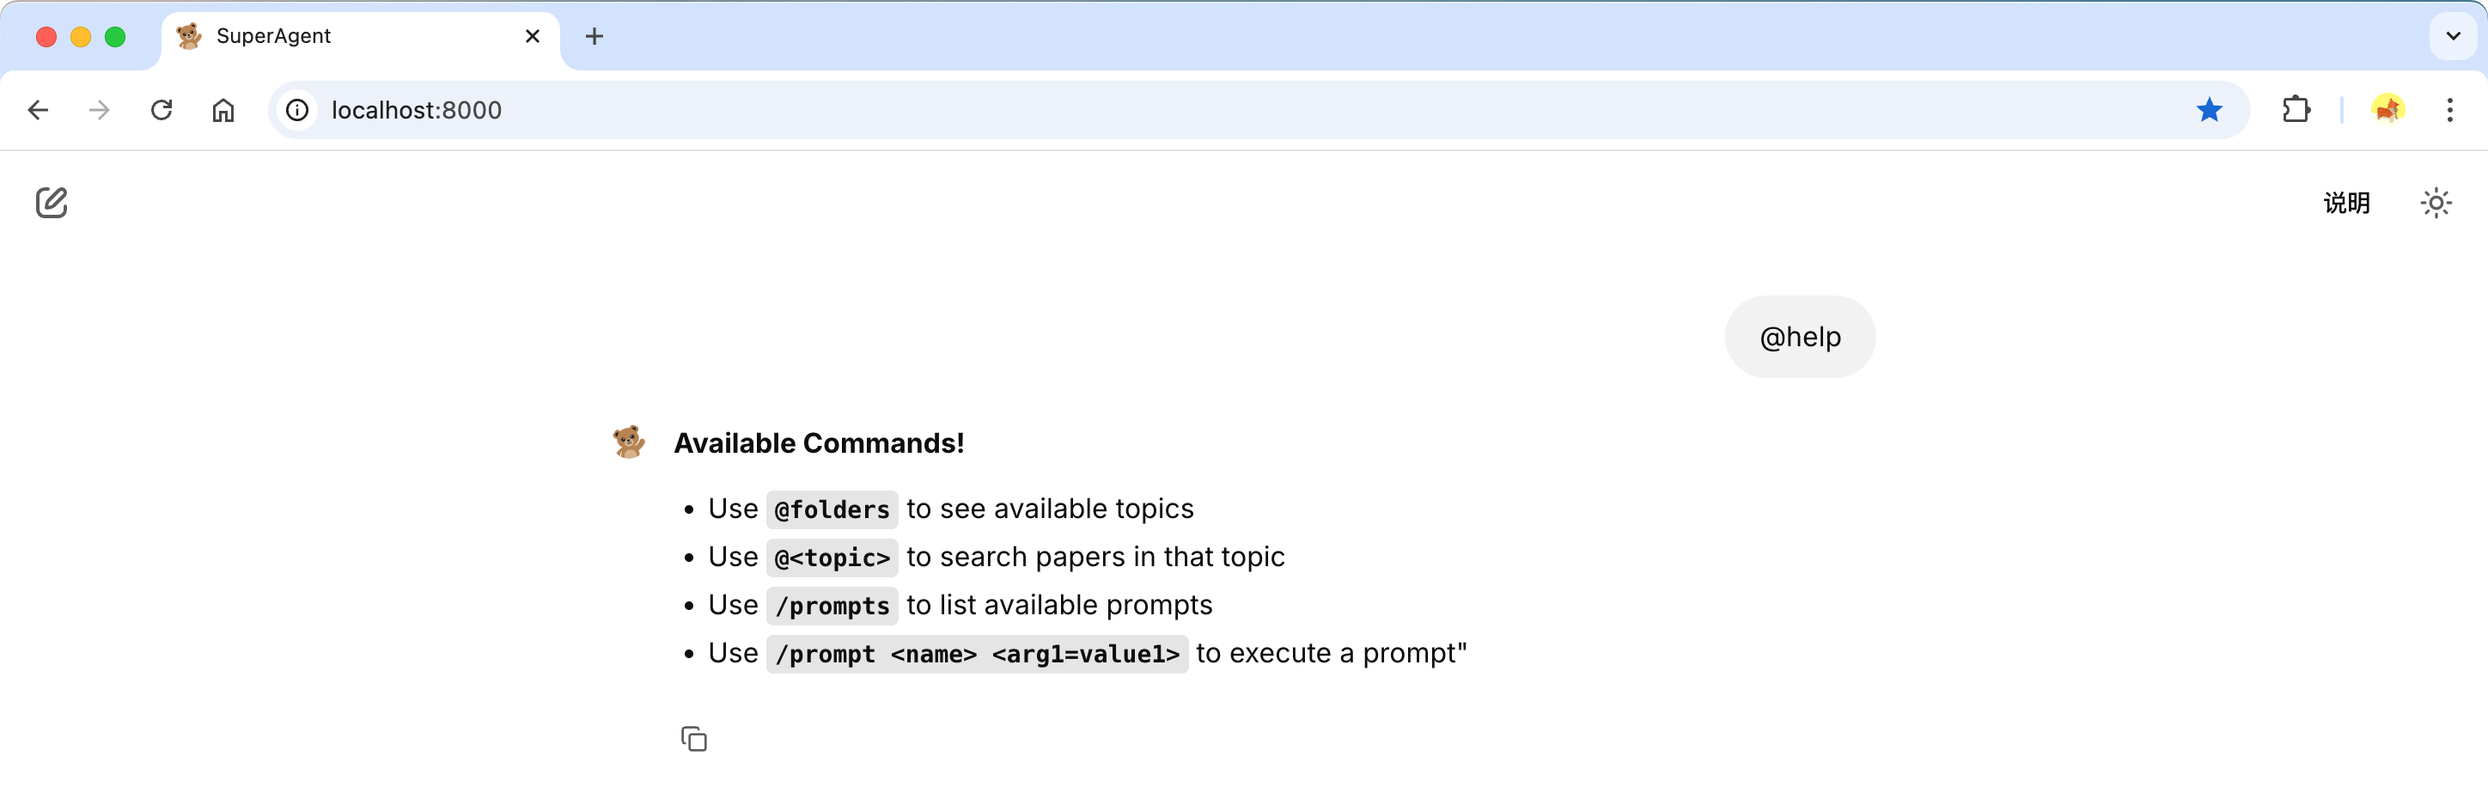
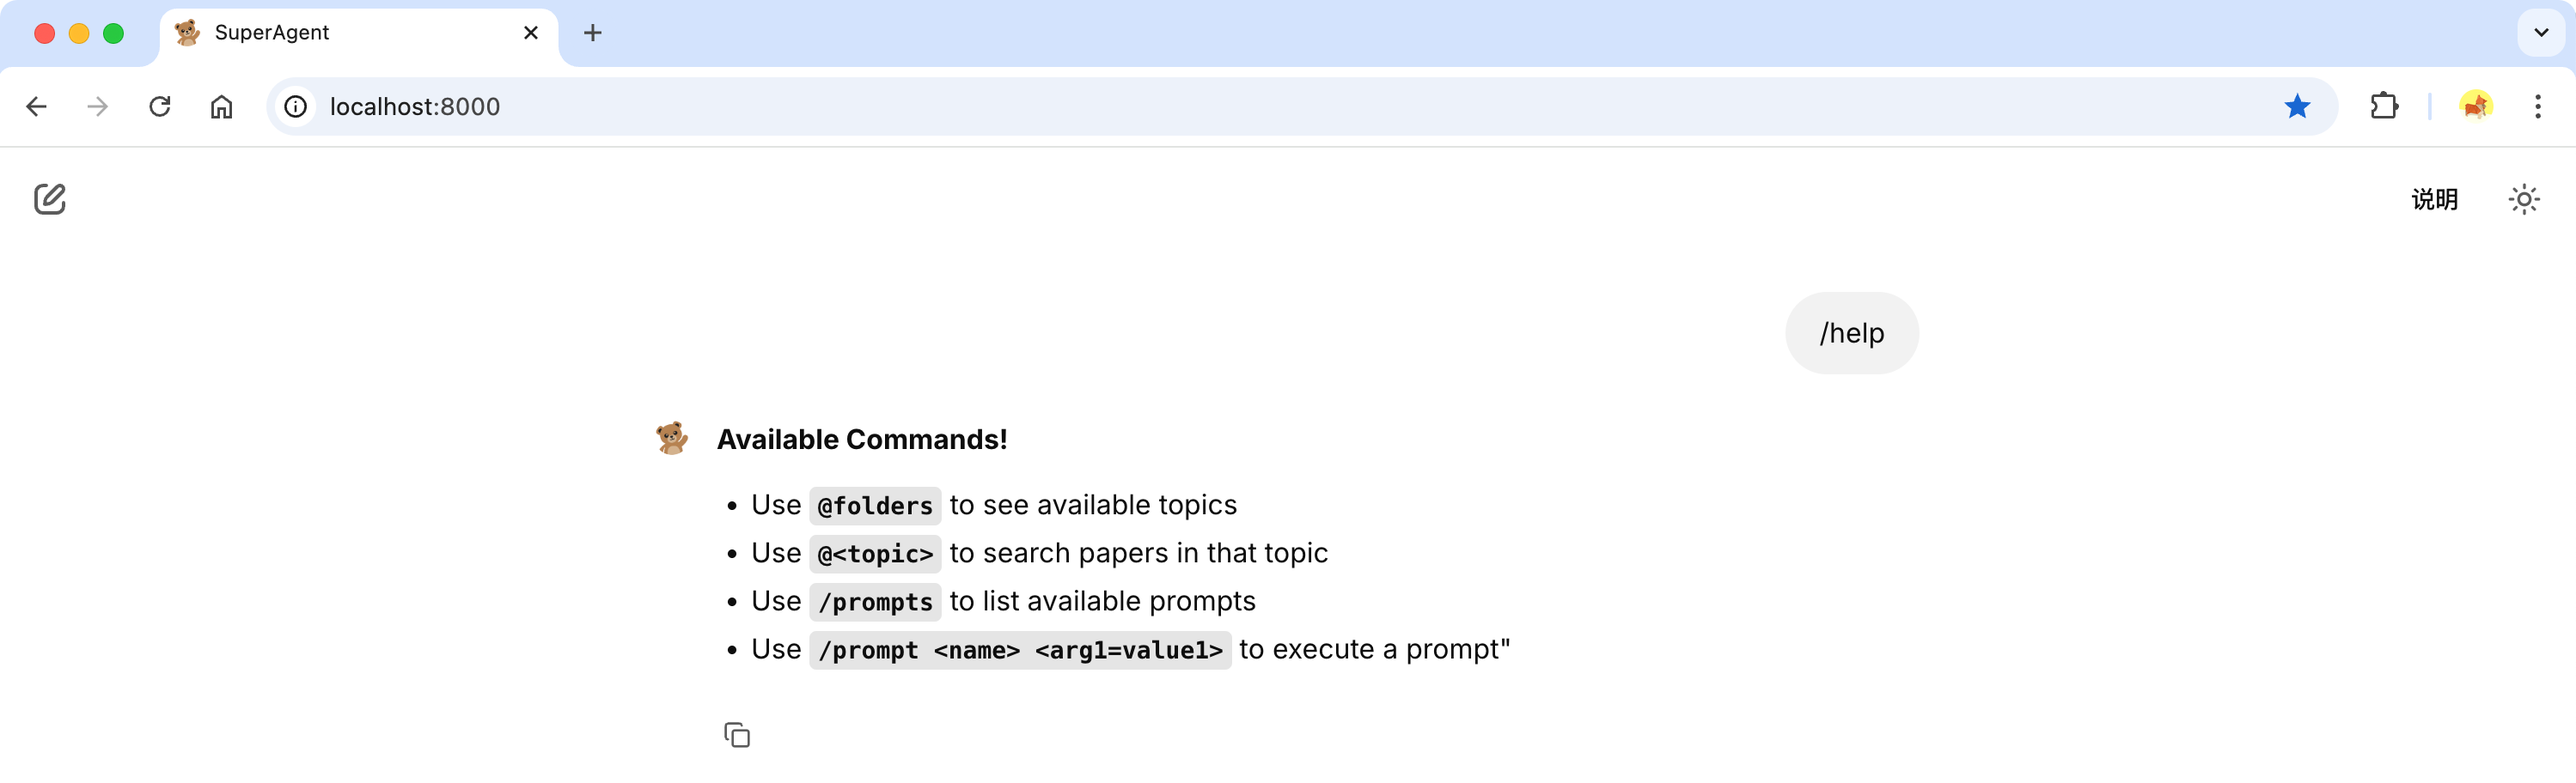
optim: 优化 help 命令前缀

diff --git a/src/agent/react_agent.py b/src/agent/react_agent.py
@@ -38,7 +38,7 @@ async def react(message: cl.Message):
 - Use `/prompts` to list available prompts
 - Use `/prompt <name> <arg1=value1>` to execute a prompt"
 """
-    if user_input.startswith("@help"):
+    if user_input.startswith("/help"):
         await cl.Message(content=help_content).send()
         return
     

diff --git a/README.md b/README.md
@@ -129,7 +129,7 @@ public  # 个性化设置
 
 ## 🤖 ReAct 智能体：v0.2.0
 
-实现 ReAct 智能体，通过 MCP（stdio 通信）进行工具调用。
+实现 ReAct 智能体，通过 MCP 进行工具调用。
 
 ### 相关技术
 
@@ -186,7 +186,7 @@ flowchart TD
     Start([用户发送消息]) --> DetectCmd{"检查指令前缀"}
 
     %% --- 1. 帮助指令 ---
-    DetectCmd -- "@help" --> ShowHelp[显示帮助信息] --> End([结束])
+    DetectCmd -- "/help" --> ShowHelp[显示帮助信息] --> End([结束])
 
     %% --- 2. 资源查看 ---
     DetectCmd -- "@resource" --> ParseUri[解析 URI]
